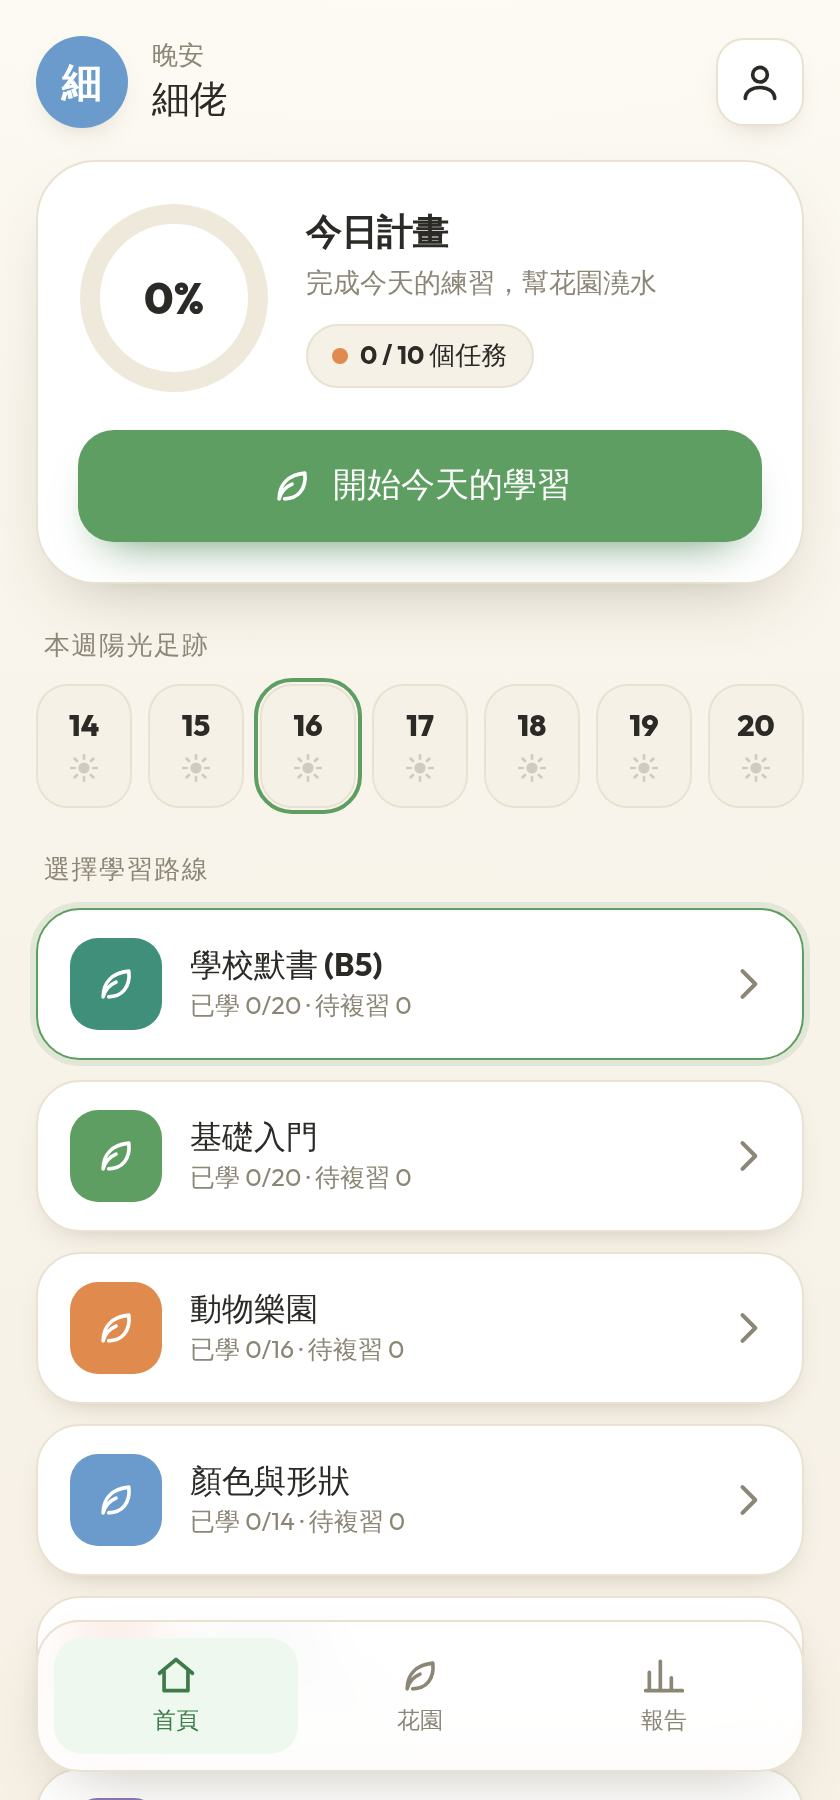
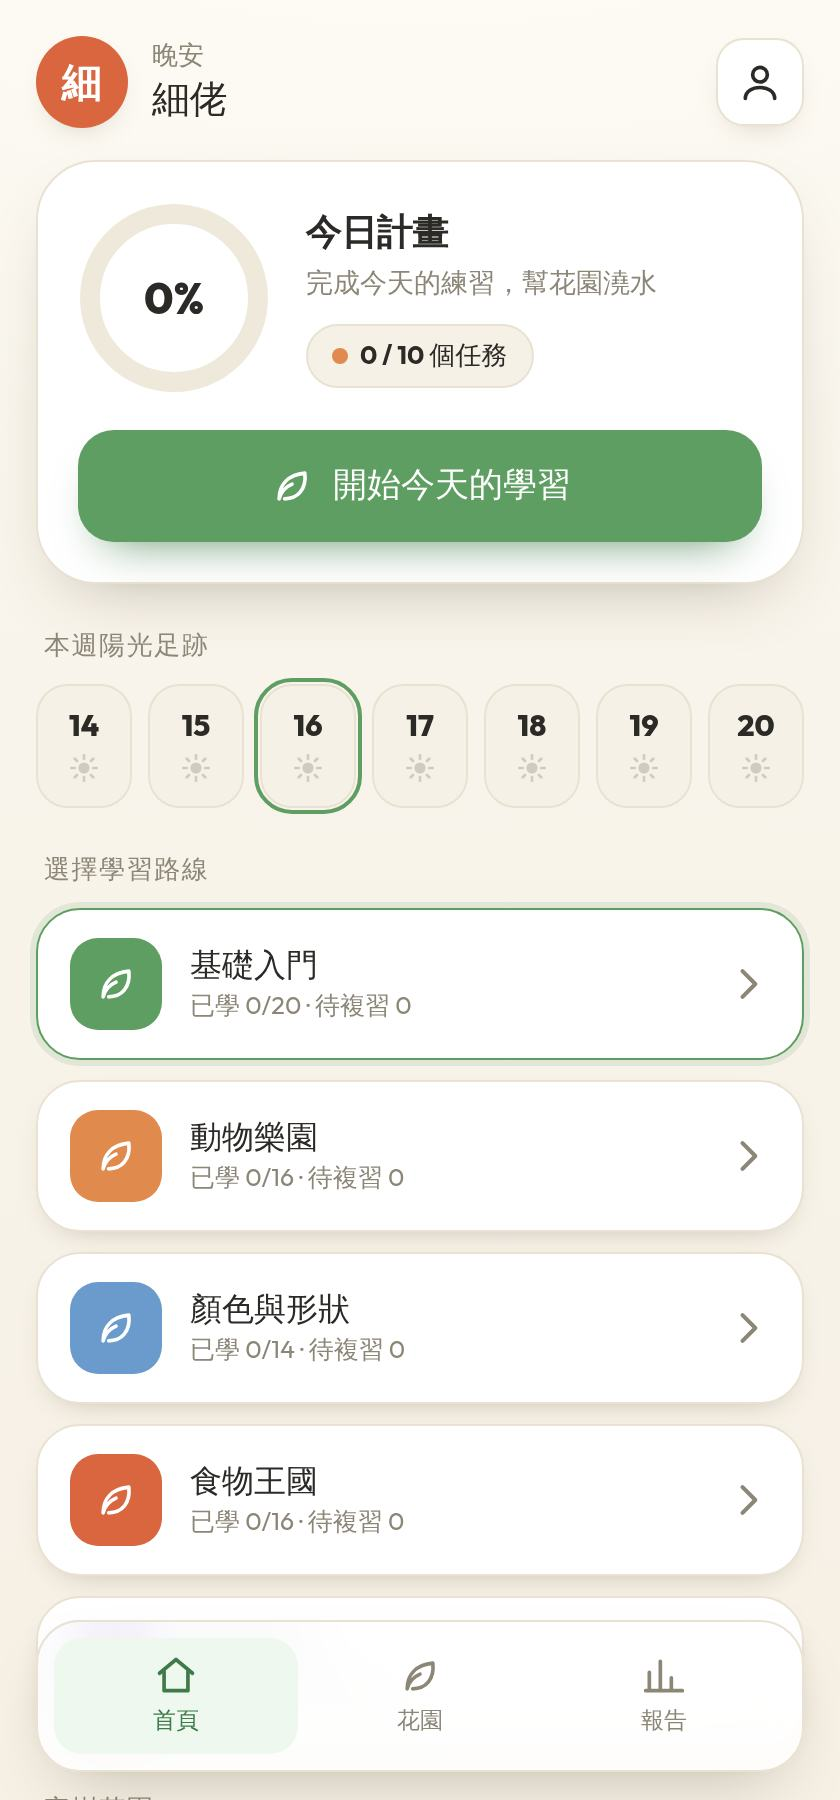
SW: network-first + cache v2（修更新唔生效問題）

diff --git a/sw.js b/sw.js
@@ -1,5 +1,5 @@
-// 離線快取 app shell
-const CACHE = "kvapp-v1";
+// 離線快取 app shell（network-first，確保更新即時生效）
+const CACHE = "kvapp-v2";
 const ASSETS = [
   "./",
   "./index.html",
@@ -19,25 +19,27 @@ self.addEventListener("install", (e) => {
 
 self.addEventListener("activate", (e) => {
   e.waitUntil(
-    caches.keys().then((keys) =>
-      Promise.all(keys.filter((k) => k !== CACHE).map((k) => caches.delete(k)))
-    ).then(() => self.clients.claim())
+    caches
+      .keys()
+      .then((keys) => Promise.all(keys.filter((k) => k !== CACHE).map((k) => caches.delete(k))))
+      .then(() => self.clients.claim())
   );
 });
 
 self.addEventListener("fetch", (e) => {
   const req = e.request;
-  if (req.method !== "GET") return;
+  if (req.method !== "GET" || new URL(req.url).origin !== self.location.origin) return;
+
+  // network-first：上線時攞最新，離線時用快取
   e.respondWith(
-    caches.match(req).then((hit) => {
-      if (hit) return hit;
-      return fetch(req)
-        .then((res) => {
-          const copy = res.clone();
-          caches.open(CACHE).then((c) => c.put(req, copy)).catch(() => {});
-          return res;
-        })
-        .catch(() => caches.match("./index.html"));
-    })
+    fetch(req)
+      .then((res) => {
+        const copy = res.clone();
+        caches.open(CACHE).then((c) => c.put(req, copy)).catch(() => {});
+        return res;
+      })
+      .catch(() =>
+        caches.match(req).then((hit) => hit || caches.match("./index.html"))
+      )
   );
 });
